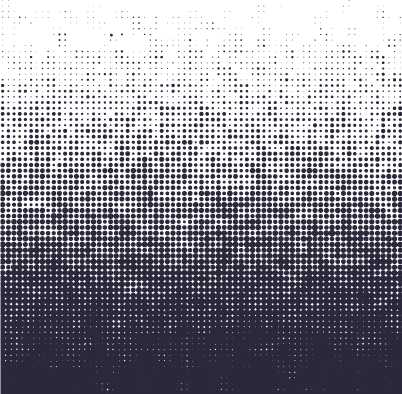
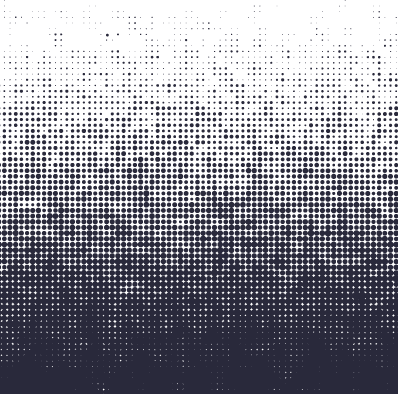
Landing page styling done for now

diff --git a/app/assets/stylesheets/application.scss b/app/assets/stylesheets/application.scss
@@ -26,15 +26,13 @@ nav {
 }
 
 .landing-header {
-    text-align: center;
     h4 {
         margin-bottom: 3rem;
     }
 }
 
-.tombstone-1 {
+.tombstone {
     text-align: center;
-    background-image: url(image_path('Tombstone_1'));
     background-repeat: no-repeat;
     background-size: contain;
     background-position: top center;
@@ -47,8 +45,54 @@ nav {
         width: 18vw;
         margin: auto;
         margin-top: 9vh;
-        h3, h4, h5 {
+        h3 {
+            font-size: 3.3vw;
+        }
+        h4, h5 {
             font-size: 2.5vw;
         }
+    }
+}
+.tombstone-1 { background-image: url(image_path('Tombstone_1')); }
+.tombstone-2 { background-image: url(image_path('Tombstone_2')); }
+
+.fade-darker {
+    background-image: url(image_path('Dot_Gradient_Blue'));
+    background-position: bottom;
+    background-repeat: repeat-x;
+}
+
+.darker {
+    background-color: $darkerblue;
+}
+
+form.themed-form {
+    .form-control {
+        background-color: transparent;
+        color: $white;
+        border-top: none;
+        border-left: none;
+        border-right: none;
+    }
+    .form-control:focus {
+        border-color: $red;
+    }
+    label, .form-control {
+        border-bottom: .15rem solid $red;
+        border-radius: 0;
+    }
+    label {
+        color: $blue;
+        padding-left: 0;
+        margin-left: 15px;
+    }
+    .btn {
+        border-radius: 0;
+        color: $white;
+        background-color: $red;
+        font-family: $font-family-serif;
+        text-transform: uppercase;
+        padding: 1rem 3rem;
+        letter-spacing: 0.1rem;
     }
 }

diff --git a/app/assets/javascripts/application.js b/app/assets/javascripts/application.js
@@ -11,7 +11,19 @@
 // about supported directives.
 //
 //= require jquery
-//= require bootstrap-sprockets
 //= require jquery_ujs
+
+// These have been disabled until it's proven that they are needed
+// require bootstrap/util
+// require bootstrap/alert
+// require bootstrap/button
+// require bootstrap/carousel
+// require bootstrap/collapse
+// require bootstrap/dropdown
+// require bootstrap/modal
+// require bootstrap/scrollspy
+// require bootstrap/tab
+// require bootstrap/popover
+
 //= require turbolinks
 //= require_tree .
